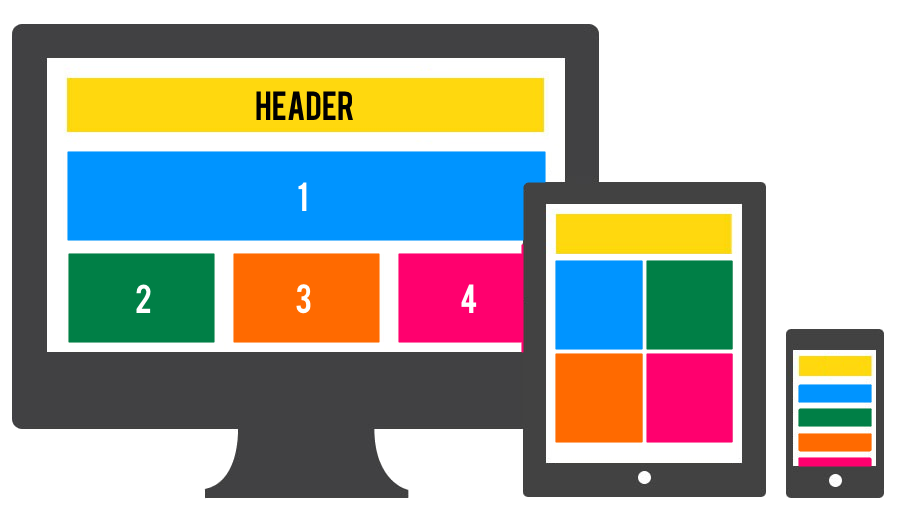
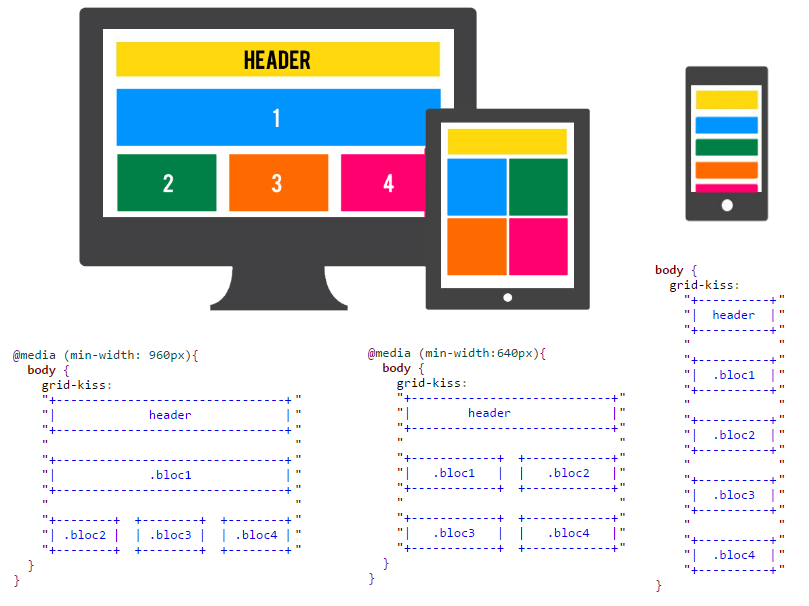
add docs for responsive layouts

diff --git a/README.md b/README.md
@@ -29,6 +29,7 @@ Table of contents
   - [Values accepted for dimensions](#values-accepted-for-dimensions)
   - [Dimensions of columns](#dimensions-of-columns)
   - [Dimensions of rows](#dimensions-of-rows)
+  - [Responsive layouts](#responsive-layouts)
 
 ##Example
 
@@ -671,11 +672,17 @@ Declare the size of a row by writing the dimension **just after the last column 
 
 The `-` separators between dimensions are not mandatory, they are only here to make the grid more readable.
 
+### Responsive layouts
+
+Use different `grid-kiss` declarations in media queries to easily get responsive layouts. It is recommended to start by the grid on small screens, then use media queries to progressively enhance your layouts on wider screens.
+
+![responsive-layouts](assets/responsive-layout.png)
+
 ---
 
 Credits for images : CSS Tricks - https://css-tricks.com/snippets/css/complete-guide-grid/
 
-[playground]:https://cdn.rawgit.com/sylvainpolletvillard/postcss-grid-kiss/38cfb2978436784dae29ec61823f1d4225464663/playground/index.html
+[playground]:https://cdn.rawgit.com/sylvainpolletvillard/postcss-grid-kiss/55301b72ca7bc922f8cf04e19f791b34cb367d31/playground/index.html
 [postcss-website]:http://postcss.org/
 [w3c-spec]:https://www.w3.org/TR/css-grid-1/
 [can-i-use]:http://caniuse.com/#feat=css-grid
